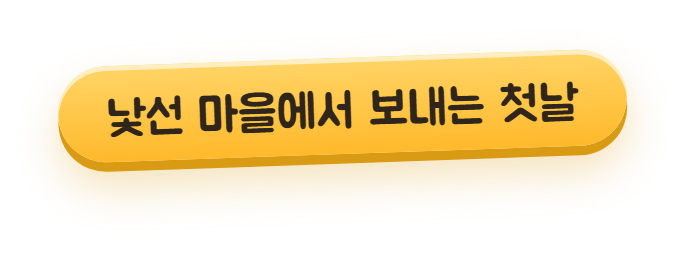
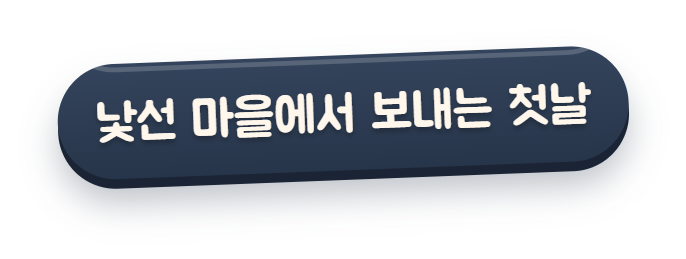
feat(frontend): 로그인 화면 로고를 ElseHere 로고로 바꾸고 칩은 남색, 게스트 버튼은 코랄, 글자는 옅은 남색으로 로고 색에 맞추기 [S15P31A305-528]

diff --git a/frontend/UnityClient/Assets/Scripts/Editor/Onboarding/LoginScreenBuilder.cs b/frontend/UnityClient/Assets/Scripts/Editor/Onboarding/LoginScreenBuilder.cs
@@ -11,7 +11,9 @@ namespace A305.EditorTools.Onboarding
     /// 로그인 메인(화면 01)을 확정한 A안(시안 e1을 다듬은 것)대로 만든다. 크기·자리는 시안 px에 1.2를 곱한 캔버스 단위다.
     /// 마을 배경 위 왼쪽을 크림색 그라데이션으로 덮고, 화면 세로 가운데에 놓인 왼쪽 열(폭 440)에 칩·로고·소개 문장,
     /// 같은 폭의 [Google로 계속하기]·[게스트로 둘러보기], 밑줄 친 약관 링크를 쌓는다. 가운데 카드는 두지 않는다.
-    /// 칩·로고·버튼처럼 그림인 부분은 시안 HTML을 그대로 렌더링한 그림(Art/UI/Login)을 쓰고, 소개 문장과 약관 링크는 글자로 둔다.
+    /// 칩·로고·버튼처럼 그림인 부분은 렌더링한 그림(Art/UI/Login)을 쓰고, 소개 문장과 약관 링크는 글자로 둔다.
+    /// 로고는 ElseHere 로고(남색 Else, 코랄 Here)이고, 칩은 남색, [게스트로 둘러보기]는 코랄로 로고 색에 맞춘다.
+    /// 마을 배경은 <see cref="LoginTownCapture"/>가 지금 마을에서 찍은 그림이다.
     /// </summary>
     public static class LoginScreenBuilder
     {
@@ -31,8 +33,9 @@ namespace A305.EditorTools.Onboarding
         private const float ArtPad = 24;
         private const float LogoPad = 30;
 
-        private static readonly Color SubtitleInk = new Color32(111, 96, 78, 255);
-        private static readonly Color LinkInk = new Color32(125, 110, 91, 255);
+        // 글자는 로고의 남색을 크림색 쪽으로 옅게 한 색이다.
+        private static readonly Color SubtitleInk = new Color32(74, 85, 106, 255);
+        private static readonly Color LinkInk = new Color32(93, 103, 121, 255);
         private static readonly Color NoticeInk = new Color32(210, 79, 47, 255);
 
         [MenuItem(MenuPath)]
